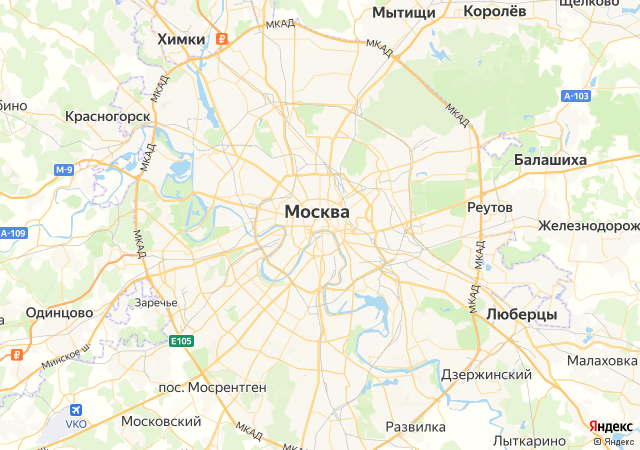
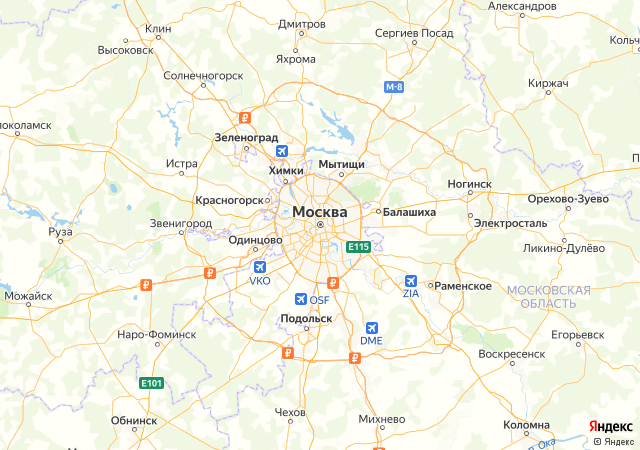
Added Z

diff --git a/main.py b/main.py
@@ -3,6 +3,7 @@ import sys
 from PyQt5.QtGui import QPixmap
 from interface import Ui_MainWindow
 from PyQt5.QtWidgets import QApplication, QMainWindow
+from PyQt5.QtCore import Qt
 
 
 class Example(Ui_MainWindow, QMainWindow):
@@ -10,7 +11,10 @@ class Example(Ui_MainWindow, QMainWindow):
         super().__init__()
         self.setupUi(self)
         self.static_map_link = 'https://static-maps.yandex.ru/1.x'
-        self.static_map_params = {'l': 'map', 'll': '37.622513,55.753220', 'size': '640,450', 'z': '10'}
+        self.z = 10
+        self.l_list = ['map', 'sat', 'skl']
+        self.l_number = 0
+        self.static_map_params = {'l': 'map', 'll': '37.622513,55.753220', 'size': '640,450', 'z': str(self.z)}
         self.geocoder_link = 'https://static-maps.yandex.ru/1.x'
         self.geocoder_params = {'apikey': '40d1649f-0493-4b70-98ba-98533de7710b', 'gecode': None,
                                 'format': 'json'}
@@ -31,6 +35,19 @@ class Example(Ui_MainWindow, QMainWindow):
 
     def geocoder_request(self):
         self.response = requests.get(self.geocoder_link, self.geocoder_params)
+
+    def keyPressEvent(self, event):
+        if event.key() == Qt.Key_PageUp:
+            self.z += 1
+            if self.z > 17:
+                self.z = 17
+        if event.key() == Qt.Key_PageDown:
+            self.z -= 1
+            if self.z < 1:
+                self.z = 1
+        self.static_map_params = {'l': 'map', 'll': '37.622513,55.753220', 'size': '640,450', 'z': str(self.z)}
+        self.static_map_request()
+        self.set_pixmap()
 
 
 if __name__ == '__main__':
